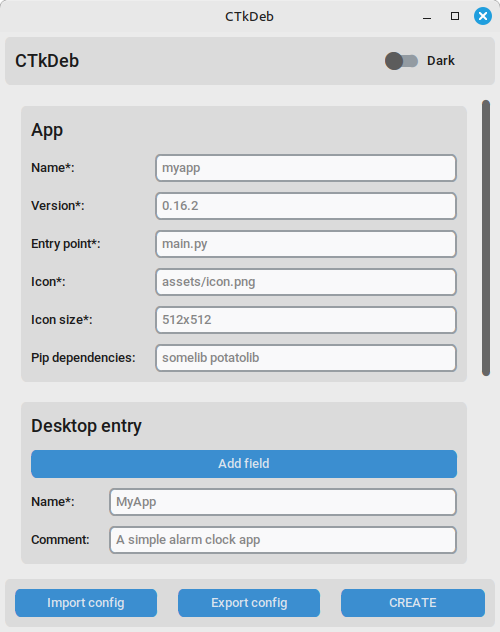
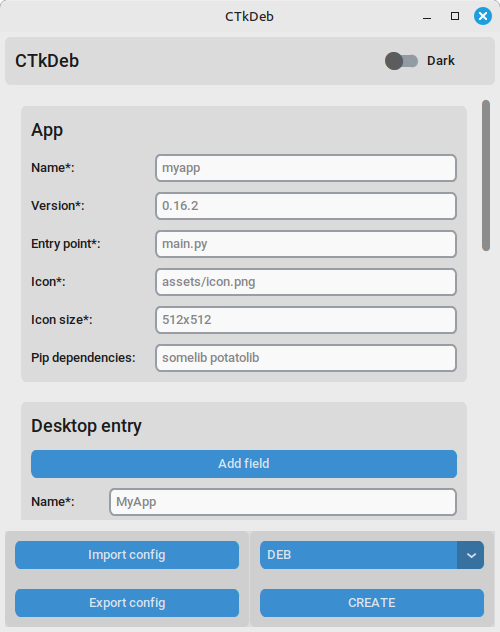
Added support for creating RPMs (for Fedora, Mageia and OpenMandriva)

Changed region(s): [[0.0, 0.8117, 0.99, 0.9921], [0.96, 0.1503, 0.99, 0.6013]]

diff --git a/ctkdeb/packager.py b/ctkdeb/packager.py
@@ -2,11 +2,18 @@ import json
 from pathlib import Path
 import shutil
 import tempfile
+import tarfile
 import subprocess
 
 REQUIRED_FIELDS = {
     "app": ["name", "version", "entryPoint", "icon", "iconSize"],
     "desktopEntry": ["Name"]
+}
+
+RPM_REQUIRES = {
+    "fedora": "python3 python3-tkinter",
+    "mageia": "python3 tkinter3",
+    "openmandriva": "python python-customtkinter"
 }
 
 def _pip_install_to_dir(target_dir: Path, dependencies: str):
@@ -124,9 +131,7 @@ Terminal=false
         apps_icons_dir = share_dir / "icons" / "hicolor" / self.json["app"]["iconSize"] / "apps"
         apps_icons_dir.mkdir(parents=True)
 
-        icon_path = Path(self.json["app"]["icon"])
-        new_icon_name = self.json["app"]["name"] + icon_path.suffix
-        shutil.copy(self.project_folder / icon_path, apps_icons_dir / new_icon_name)
+        shutil.copy(self.project_folder / self.json["app"]["icon"], apps_icons_dir / self._new_icon_name())
 
         print("Creating the desktop entry...")
 
@@ -146,17 +151,11 @@ Terminal=false
 
         print("Install CustomTkinter and pip dependencies...")
 
-        entry_point = Path(self.json["app"]["entryPoint"])
-        if len(entry_point.parts) == 1:
-            d = opt_dir / self.project_folder.name
-        else:
-            d = opt_dir / self.project_folder.name / entry_point.parent
-
         dependencies = "customtkinter"
         if self.json["app"].get("pipDependencies"):
             dependencies += " " + self.json["app"]["pipDependencies"]
 
-        _pip_install_to_dir(d, dependencies)
+        _pip_install_to_dir(self._pip_target_dir(opt_dir), dependencies)
 
         print("Estimating package dir size...")
 
@@ -193,7 +192,129 @@ Description: {self.json['deb'].get('description') or 'Packaged via CTkDeb'}
 
         print("Moving DEB and removing tmp dir...")
 
-        shutil.copy(Path(tmp_dir) / (self.json["app"]["name"] + ".deb"), self.output_folder)
+        shutil.move(Path(tmp_dir) / (self.json["app"]["name"] + ".deb"), self.output_folder)
         shutil.rmtree(tmp_dir)
 
         print("DEB successfully created!")
+
+    def create_rpm(self, distribution: str):
+        supported_distros = RPM_REQUIRES.keys()
+        if distribution not in supported_distros:
+            raise ValueError(f"Only {' '.join(supported_distros)} are supported.")
+
+        tmp_dir = tempfile.mkdtemp()
+
+        package_dir = Path(tmp_dir) / self.json["app"]["name"]
+        package_dir.mkdir()
+
+        print("Creating SPEC file...")
+
+        requires = RPM_REQUIRES[distribution]
+        if self.json["rpmRequires"].get(distribution):
+            requires += " " + self.json["rpmRequires"][distribution]
+
+        docs_files_names = [Path(f).name for f in self.json["documentationFiles"]]
+
+        spec = f"""Name: {self.json['app']['name']}
+Version: {self.json['app']['version']}
+Release: 1.{distribution}
+Summary: {self.json['rpm'].get('summary') or 'Packaged via CTkDeb'}
+License: {self.json['rpm'].get('license') or 'Unknown'}
+Source0: {self.json['app']['name']}.tar
+BuildArch: noarch
+URL: {self.json['rpm'].get('url') or 'https://example.com'}
+Requires: {requires}
+
+%description
+{self.json['rpm'].get('description') or 'This app is packaged via CTkDeb.'}
+
+%prep
+%setup -q -n {self.json['app']['name']}
+
+%install
+mkdir -p %{{buildroot}}/opt
+cp -r {self.project_folder.name} %{{buildroot}}/opt
+
+mkdir -p %{{buildroot}}/usr/share/icons/hicolor/{self.json['app']['iconSize']}/apps
+cp {self._new_icon_name()} %{{buildroot}}/usr/share/icons/hicolor/{self.json['app']['iconSize']}/apps
+
+mkdir -p %{{buildroot}}/usr/share/applications
+cp {self.json['app']['name']}.desktop %{{buildroot}}/usr/share/applications
+{f"""
+mkdir -p %{{buildroot}}/usr/share/doc/{self.json['app']['name']}
+cp {' '.join(docs_files_names)} %{{buildroot}}/usr/share/doc/{self.json['app']['name']}
+""" if docs_files_names else ''}
+%files
+/opt/{self.project_folder.name}
+/usr/share/icons/hicolor/{self.json['app']['iconSize']}/apps/{self._new_icon_name()}
+/usr/share/applications/{self.json['app']['name']}.desktop
+{''.join(f"/usr/share/doc/{self.json['app']['name']}/{f}\n" for f in docs_files_names)
+if docs_files_names else ''}"""
+
+        with open(package_dir / (self.json["app"]["name"] + ".spec"), "w", encoding="utf-8") as f:
+            f.write(spec)
+
+        print("Creating the desktop entry...")
+
+        with open(package_dir / (self.json["app"]["name"] + ".desktop"), "w", encoding="utf-8") as f:
+            f.write(self.desktop_entry)
+
+        print("Copying app files...")
+
+        shutil.copytree(self.project_folder, package_dir / self.project_folder.name)
+
+        print("Copying the icon...")
+
+        shutil.copy(self.project_folder / self.json["app"]["icon"], package_dir / self._new_icon_name())
+
+        print("Copying docs...")
+
+        for f in self.json["documentationFiles"]:
+            shutil.copy(self.project_folder / f, package_dir)
+
+        print("Install CustomTkinter and pip dependencies...")
+
+        dependencies = []
+
+        if distribution != "openmandriva":
+            dependencies.append("customtkinter")
+
+        if self.json["app"].get("pipDependencies"):
+            dependencies.extend(self.json["app"]["pipDependencies"].split())
+
+        if dependencies:
+            _pip_install_to_dir(self._pip_target_dir(package_dir), " ".join(dependencies))
+
+        print("Creating tarball...")
+
+        tar_name = Path(tmp_dir) / (self.json["app"]["name"] + ".tar")
+
+        with tarfile.open(tar_name, "w") as f:
+            f.add(package_dir, arcname=self.json["app"]["name"])
+
+        print("Creating RPM package...")
+
+        subprocess.run(["rpmbuild", "-tb", tar_name, "--define", "_topdir " + tmp_dir])
+
+        print("Moving RPM and removing tmp dir...")
+
+        for f in (Path(tmp_dir) / "RPMS" / "noarch").glob("*.rpm"):
+            shutil.move(str(f), self.output_folder)
+
+        shutil.rmtree(tmp_dir)
+
+        print("RPM successfully created!")
+
+    def _new_icon_name(self) -> str:
+        icon_path = Path(self.json["app"]["icon"])
+        return self.json["app"]["name"] + icon_path.suffix
+
+    def _pip_target_dir(self, app_files_dir_parent: Path) -> Path:
+        entry_point = Path(self.json["app"]["entryPoint"])
+
+        if len(entry_point.parts) == 1:
+            d = app_files_dir_parent / self.project_folder.name
+        else:
+            d = app_files_dir_parent / self.project_folder.name / entry_point.parent
+
+        return d

diff --git a/ctkdeb/gui.py b/ctkdeb/gui.py
@@ -8,6 +8,13 @@ from . import packager
 
 PATH = os.path.dirname(os.path.realpath(__file__))
 
+SUPPORTED = {
+    "DEB": "deb",
+    "RPM (Fedora)": "fedora",
+    "RPM (Mageia)": "mageia",
+    "RPM (OpenMandriva)": "openmandriva"
+}
+
 class CTkDeb(ctk.CTk):
     def __init__(self):
         super().__init__()
@@ -58,6 +65,24 @@ class CTkDeb(ctk.CTk):
                     {"id": "maintainer", "label": "Maintainer", "placeholder": "Ivan Ivanov <ivan_dev@example.com>"},
                     {"id": "description", "label": "Description", "placeholder": "A simple alarm clock app"},
                 ]
+            },
+            "rpm": {
+                "title": "RPM-specific settings",
+                "items": [
+                    {"id": "summary", "label": "Summary", "placeholder": "A simple alarm clock app"},
+                    {"id": "license", "label": "License", "placeholder": "MIT and GPL-3.0-or-later"},
+                    {"id": "url", "label": "URL", "placeholder": "https://myapp.com"},
+                    {"id": "description", "label": "Description",
+                     "placeholder": "MyApp is a simple alarm clock app with a user-friendly interface."}
+                ]
+            },
+            "rpmRequires": {
+                "title": "RPM requires",
+                "items": [
+                    {"id": "fedora", "label": "Fedora", "placeholder": "somelib potatolib"},
+                    {"id": "mageia", "label": "Mageia", "placeholder": "libsome potato-library"},
+                    {"id": "openmandriva", "label": "OpenMandriva", "placeholder": "some-lib potatolib3"}
+                ]
             }
         }
         self.entries = {}
@@ -88,17 +113,24 @@ class CTkDeb(ctk.CTk):
         footer = ctk.CTkFrame(self)
         footer.pack(padx=5, pady=5, side=ctk.BOTTOM, fill=ctk.X)
 
-        import_config_button = ctk.CTkButton(footer, text="Import config", command=self.import_config)
-        import_config_button.grid(row=0, column=0, padx=10, pady=10, sticky=ctk.EW)
+        config_frame = ctk.CTkFrame(footer)
+        config_frame.pack(side=ctk.LEFT, fill=ctk.X, expand=True)
 
-        export_config_button = ctk.CTkButton(footer, text="Export config", command=self.export_config)
-        export_config_button.grid(row=0, column=1, padx=10, pady=10, sticky=ctk.EW)
+        import_config_button = ctk.CTkButton(config_frame, text="Import config", command=self.import_config)
+        import_config_button.pack(padx=10, pady=10, fill=ctk.X, expand=True)
 
-        create_button = ctk.CTkButton(footer, text="CREATE", command=self.create_deb)
-        create_button.grid(row=0, column=2, padx=10, pady=10, sticky=ctk.EW)
+        export_config_button = ctk.CTkButton(config_frame, text="Export config", command=self.export_config)
+        export_config_button.pack(padx=10, pady=10, fill=ctk.X, expand=True)
 
-        for i in footer.winfo_children():
-            footer.columnconfigure(i, weight=1)
+        create_frame = ctk.CTkFrame(footer)
+        create_frame.pack(side=ctk.RIGHT, fill=ctk.X, expand=True)
+
+        self.create_optionmenu = ctk.CTkOptionMenu(create_frame, values=list(SUPPORTED.keys()),
+                                                   dynamic_resizing=False)
+        self.create_optionmenu.pack(padx=10, pady=10, fill=ctk.X, expand=True)
+
+        create_button = ctk.CTkButton(create_frame, text="CREATE", command=self.create_package)
+        create_button.pack(padx=10, pady=10, fill=ctk.X, expand=True)
 
     def create_cards(self):
         scrollable = ctk.CTkScrollableFrame(self, fg_color="transparent")
@@ -272,10 +304,17 @@ class CTkDeb(ctk.CTk):
             entry.destroy()
         self.doc_entries.clear()
 
-    def create_deb(self):
+    def create_package(self):
+        value = self.create_optionmenu.get()
+        value_name = SUPPORTED[value]
+
         config = self.get_config_dict()
 
         p = packager.Packager(config)
-        p.create_deb()
 
-        messagebox.showinfo("DEB created", "DEB successfully created")
+        if value_name == "deb":
+            p.create_deb()
+        elif value_name in packager.RPM_REQUIRES.keys():
+            p.create_rpm(value_name)
+
+        messagebox.showinfo(f"{value} created", f"{value} successfully created")

diff --git a/ctkdeb/main.py b/ctkdeb/main.py
@@ -1,12 +1,15 @@
+from .packager import RPM_REQUIRES
+
 def cli():
     import argparse
     from .packager import Packager
 
     parser = argparse.ArgumentParser(
         prog="CTkDeb",
-        description="A tool for easily packaging CustomTkinter projects into DEBs"
+        description="A tool for easily packaging CustomTkinter projects into DEB and RPM"
     )
     parser.add_argument("json", type=str, help="Path to the JSON config")
+    parser.add_argument("-c", "--create", required=True, choices=["deb"] + list(RPM_REQUIRES.keys()))
     parser.add_argument("-pf", "--project-folder", type=str,
                         help="Path to the project folder (if the command is not executed from it)")
     parser.add_argument("-d", "--desktop-entry", type=str,
@@ -21,13 +24,22 @@ def cli():
         desktop_entry=args.desktop_entry,
         output_folder=args.output_folder
     )
-    packager.create_deb()
+
+    if args.create == "deb":
+        packager.create_deb()
+    elif args.create in RPM_REQUIRES.keys():
+        packager.create_rpm(args.create)
 
 def gui():
     from .gui import CTkDeb
 
     app = CTkDeb()
     app.mainloop()
+
+def show_supported_rpm_distros():
+    print("Supported RPM distros:")
+    for distro in RPM_REQUIRES.keys():
+        print(f"- '{distro}'")
 
 if __name__ == "__main__":
     cli()

diff --git a/ctkdeb/__init__.py b/ctkdeb/__init__.py
@@ -1,1 +1,2 @@
 from .packager import Packager
+from .main import show_supported_rpm_distros

diff --git a/README.md b/README.md
@@ -7,7 +7,7 @@
     <img src="https://raw.githubusercontent.com/limafresh/CTkDeb/main/ctkdeb/icon.png" width="100" height="100">
 </p>
 
-The easiest way to create a DEB of your CustomTkinter project! You can create a small DEB without deep packaging experience.
+The easiest way to create a DEB or RPM package of your CustomTkinter project! You can create a small DEB or RPM package without deep packaging experience.
 
 ## Install
 
@@ -15,7 +15,8 @@ The easiest way to create a DEB of your CustomTkinter project! You can create a 
 pip install CTkDeb[gui]
 ```
 
-Packaging requires the `dpkg-deb` tool (it is pre-installed on most Debian-like systems, so you probably won't need to install it separately).
+- Creating **DEB** packages requires the `dpkg-deb` tool (pre-installed on most Debian-like systems, probably does not need to be installed separately).
+- Creating **RPM** packages requires the `rpmbuild` tool.
 
 ## Run
 
@@ -32,7 +33,7 @@ ctkdeb-gui
 ## CLI
 
 ```
-ctkdeb config.json
+ctkdeb config.json --create deb
 ```
 
 View all arguments:
@@ -48,6 +49,15 @@ from ctkdeb import Packager
 
 packager = Packager("config.json")
 packager.create_deb()
+# or
+packager.create_rpm("fedora")
+```
+
+View all supported RPM distros:
+
+```python
+from ctkdeb import show_supported_rpm_distros
+show_supported_rpm_distros()
 ```
 
 Arguments:
@@ -64,6 +74,10 @@ Arguments:
 - Do I need to specify Tkinter and CustomTkinter as dependencies?
 
 No, CTkDeb has already taken care of that; just specify third-party dependencies, if any.
+
+- What about dependencies?
+
+Pip dependencies are recommended only if they are written in pure Python (e.g., CTkMenuBar). If not, it's better to search for the required dependency in the distribution repositories and specify it as a DEB or RPM dependency. For example, for Pillow, specify `python3-pil` for DEB or `python3-pillow` for RPM (Fedora/Mageia) instead of `pillow` in the Pip dependencies line.
 
 ## Other
 

diff --git a/CHANGELOG.md b/CHANGELOG.md
@@ -1,5 +1,8 @@
 # CTkDeb changelog
 
+## 0.5.0
+- Added support for creating RPMs (for Fedora, Mageia and OpenMandriva)
+
 ## 0.4.0
 - You can now specify a config dictionary as json_path
 
